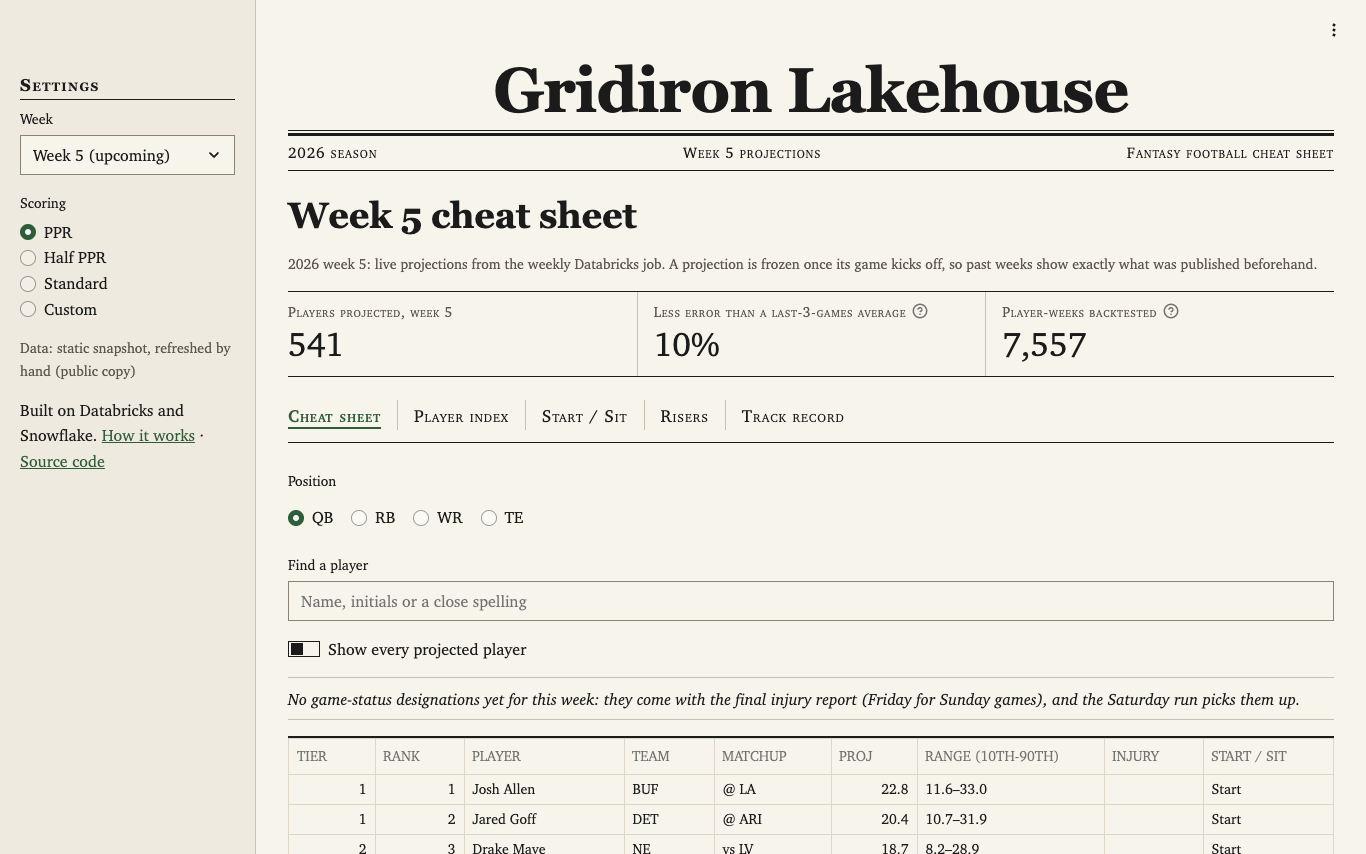
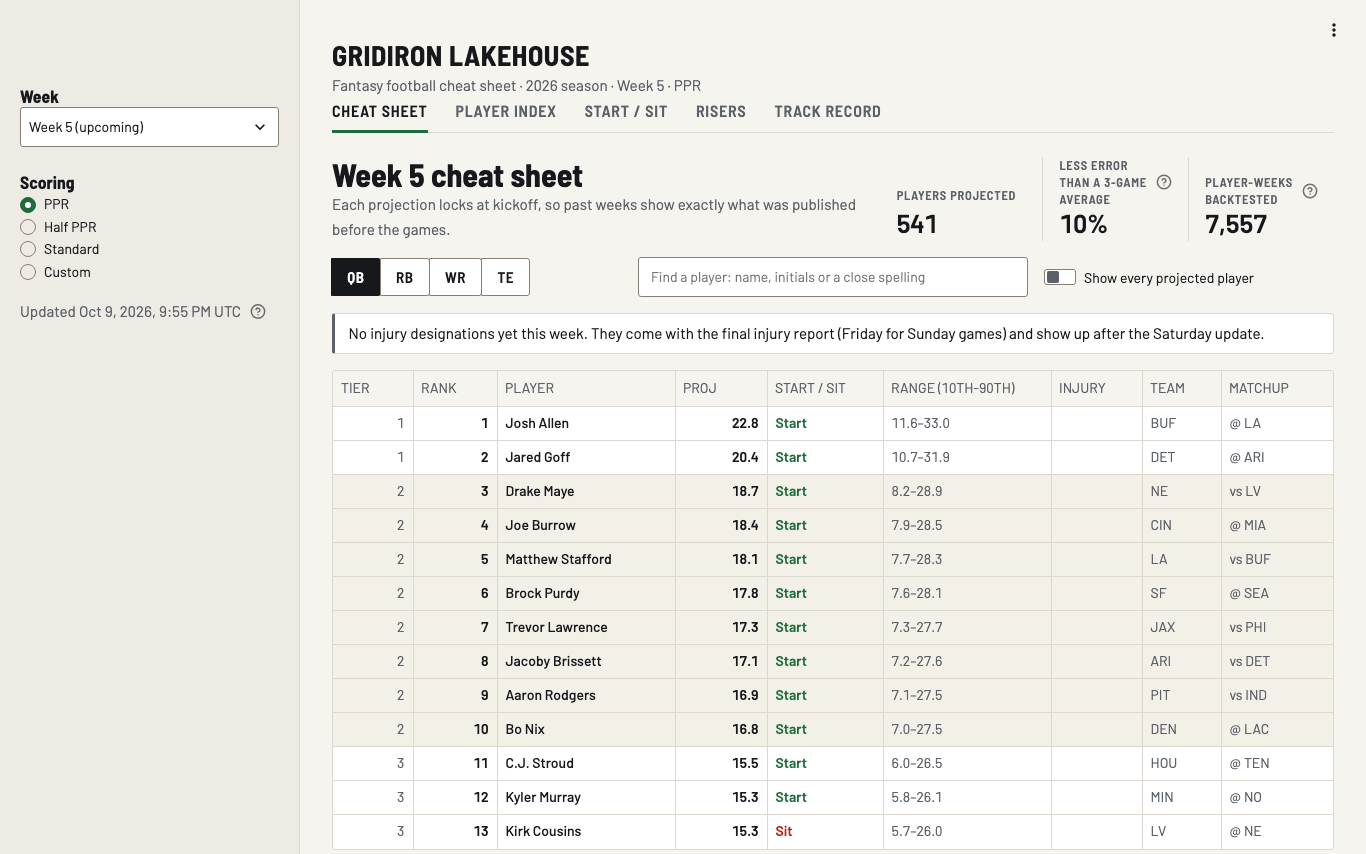
Update screenshots

diff --git a/docs/verification.md b/docs/verification.md
@@ -123,8 +123,9 @@ Apple Silicon, Python 3.12, Java 21, on 2026-10-08 and 2026-10-09, with the comm
   Murray, Jr." (a comma in the name).
 * **dbt**: `dbt build --target ci` passes 54 nodes on the fixtures; `make dbt-local` passes 55
   over the full local data, including the SQL-vs-Python reconciliation test.
-* **Checks**: `make check` (ruff, mypy strict, generated-SQL check, dbt CI build, 245 pytest
+* **Checks**: `make check` (ruff, mypy strict, generated-SQL check, dbt CI build, 247 pytest
   tests) passes; CI runs the same steps on every push to main and every pull request.
-* **App**: the Streamlit app's 16 headless tests (`tests/test_streamlit_app.py`) cover the
+* **App**: the Streamlit app's 18 headless tests (`tests/test_streamlit_app.py`) cover the
   local DuckDB mode and the public snapshot mode, including the league scoring form, the
-  number of queries a scoring change runs and a hostile player name rendered as text.
+  number of queries a scoring change runs, the cheat sheet's start/sit colors and tier
+  shading, the public theme's fonts and a hostile player name rendered as text.

diff --git a/README.md b/README.md
@@ -56,7 +56,7 @@ per-season results and caveats: [docs/methodology.md](docs/methodology.md).
   volume); Snowflake SQL for the warehouse, cost monitor, roles, UDF, stream, task and app;
   DDL generated from the table contracts; a dbt project with Snowflake and DuckDB targets.
 * CI on every push to main: Ruff, strict mypy, a generated-SQL freshness check, a dbt build
-  and its tests on DuckDB fixtures, and 245 pytest tests, including the pipeline on local
+  and its tests on DuckDB fixtures, and 247 pytest tests, including the pipeline on local
   Spark and headless tests of the Streamlit app.
 
 ## Why both platforms?
